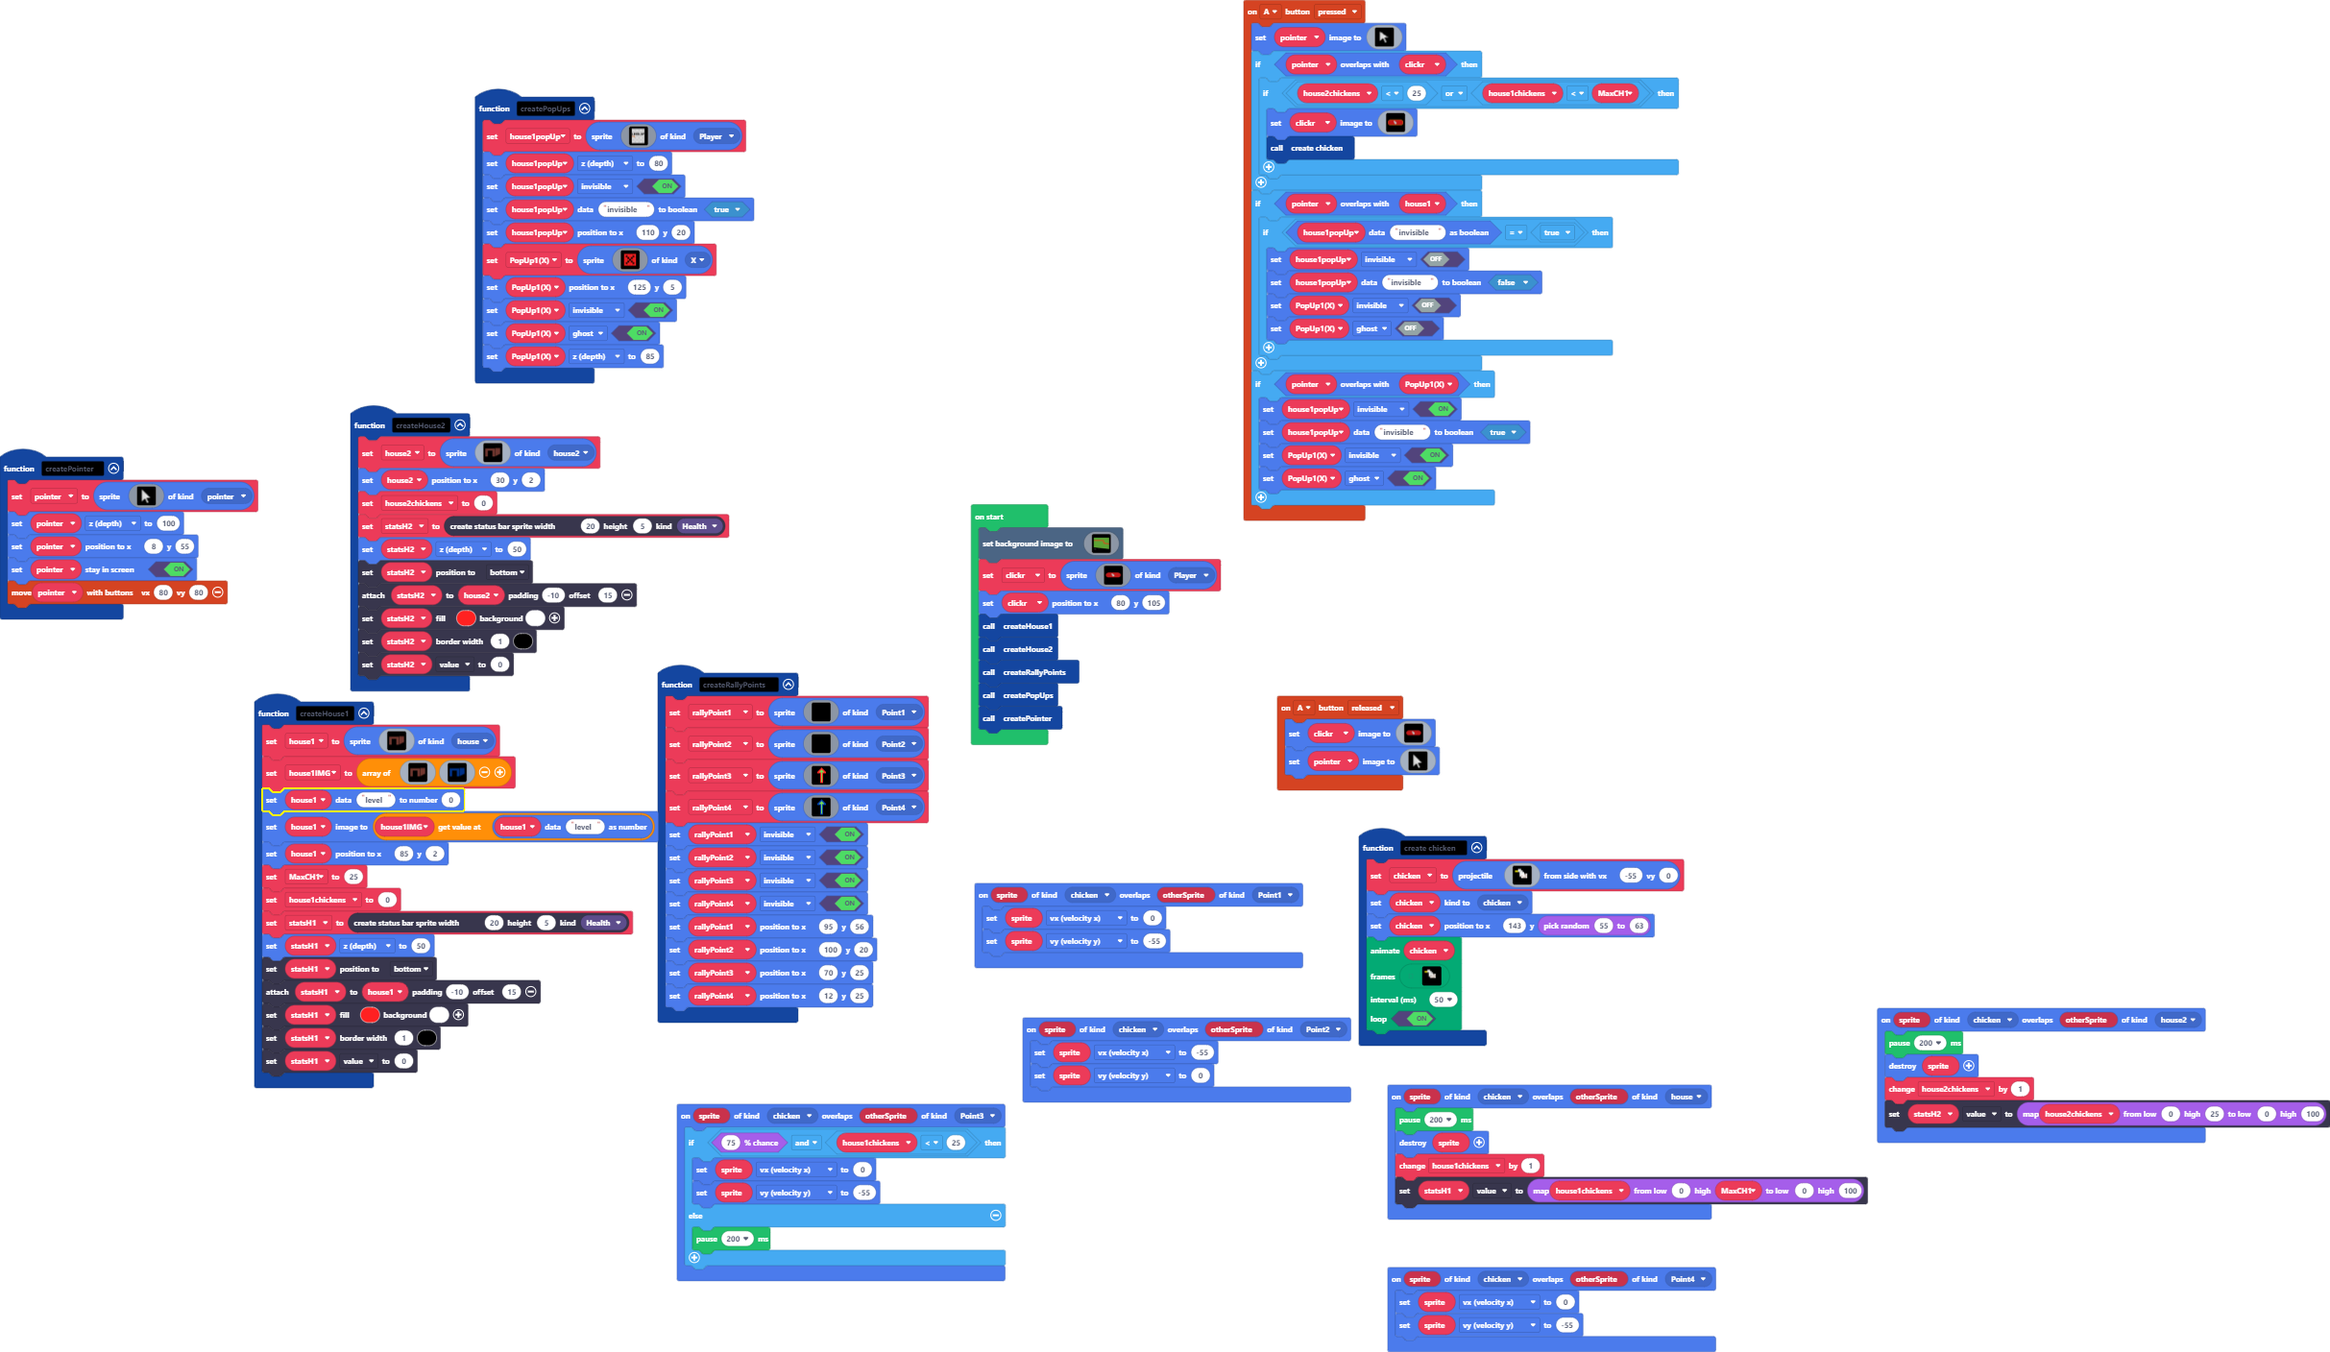
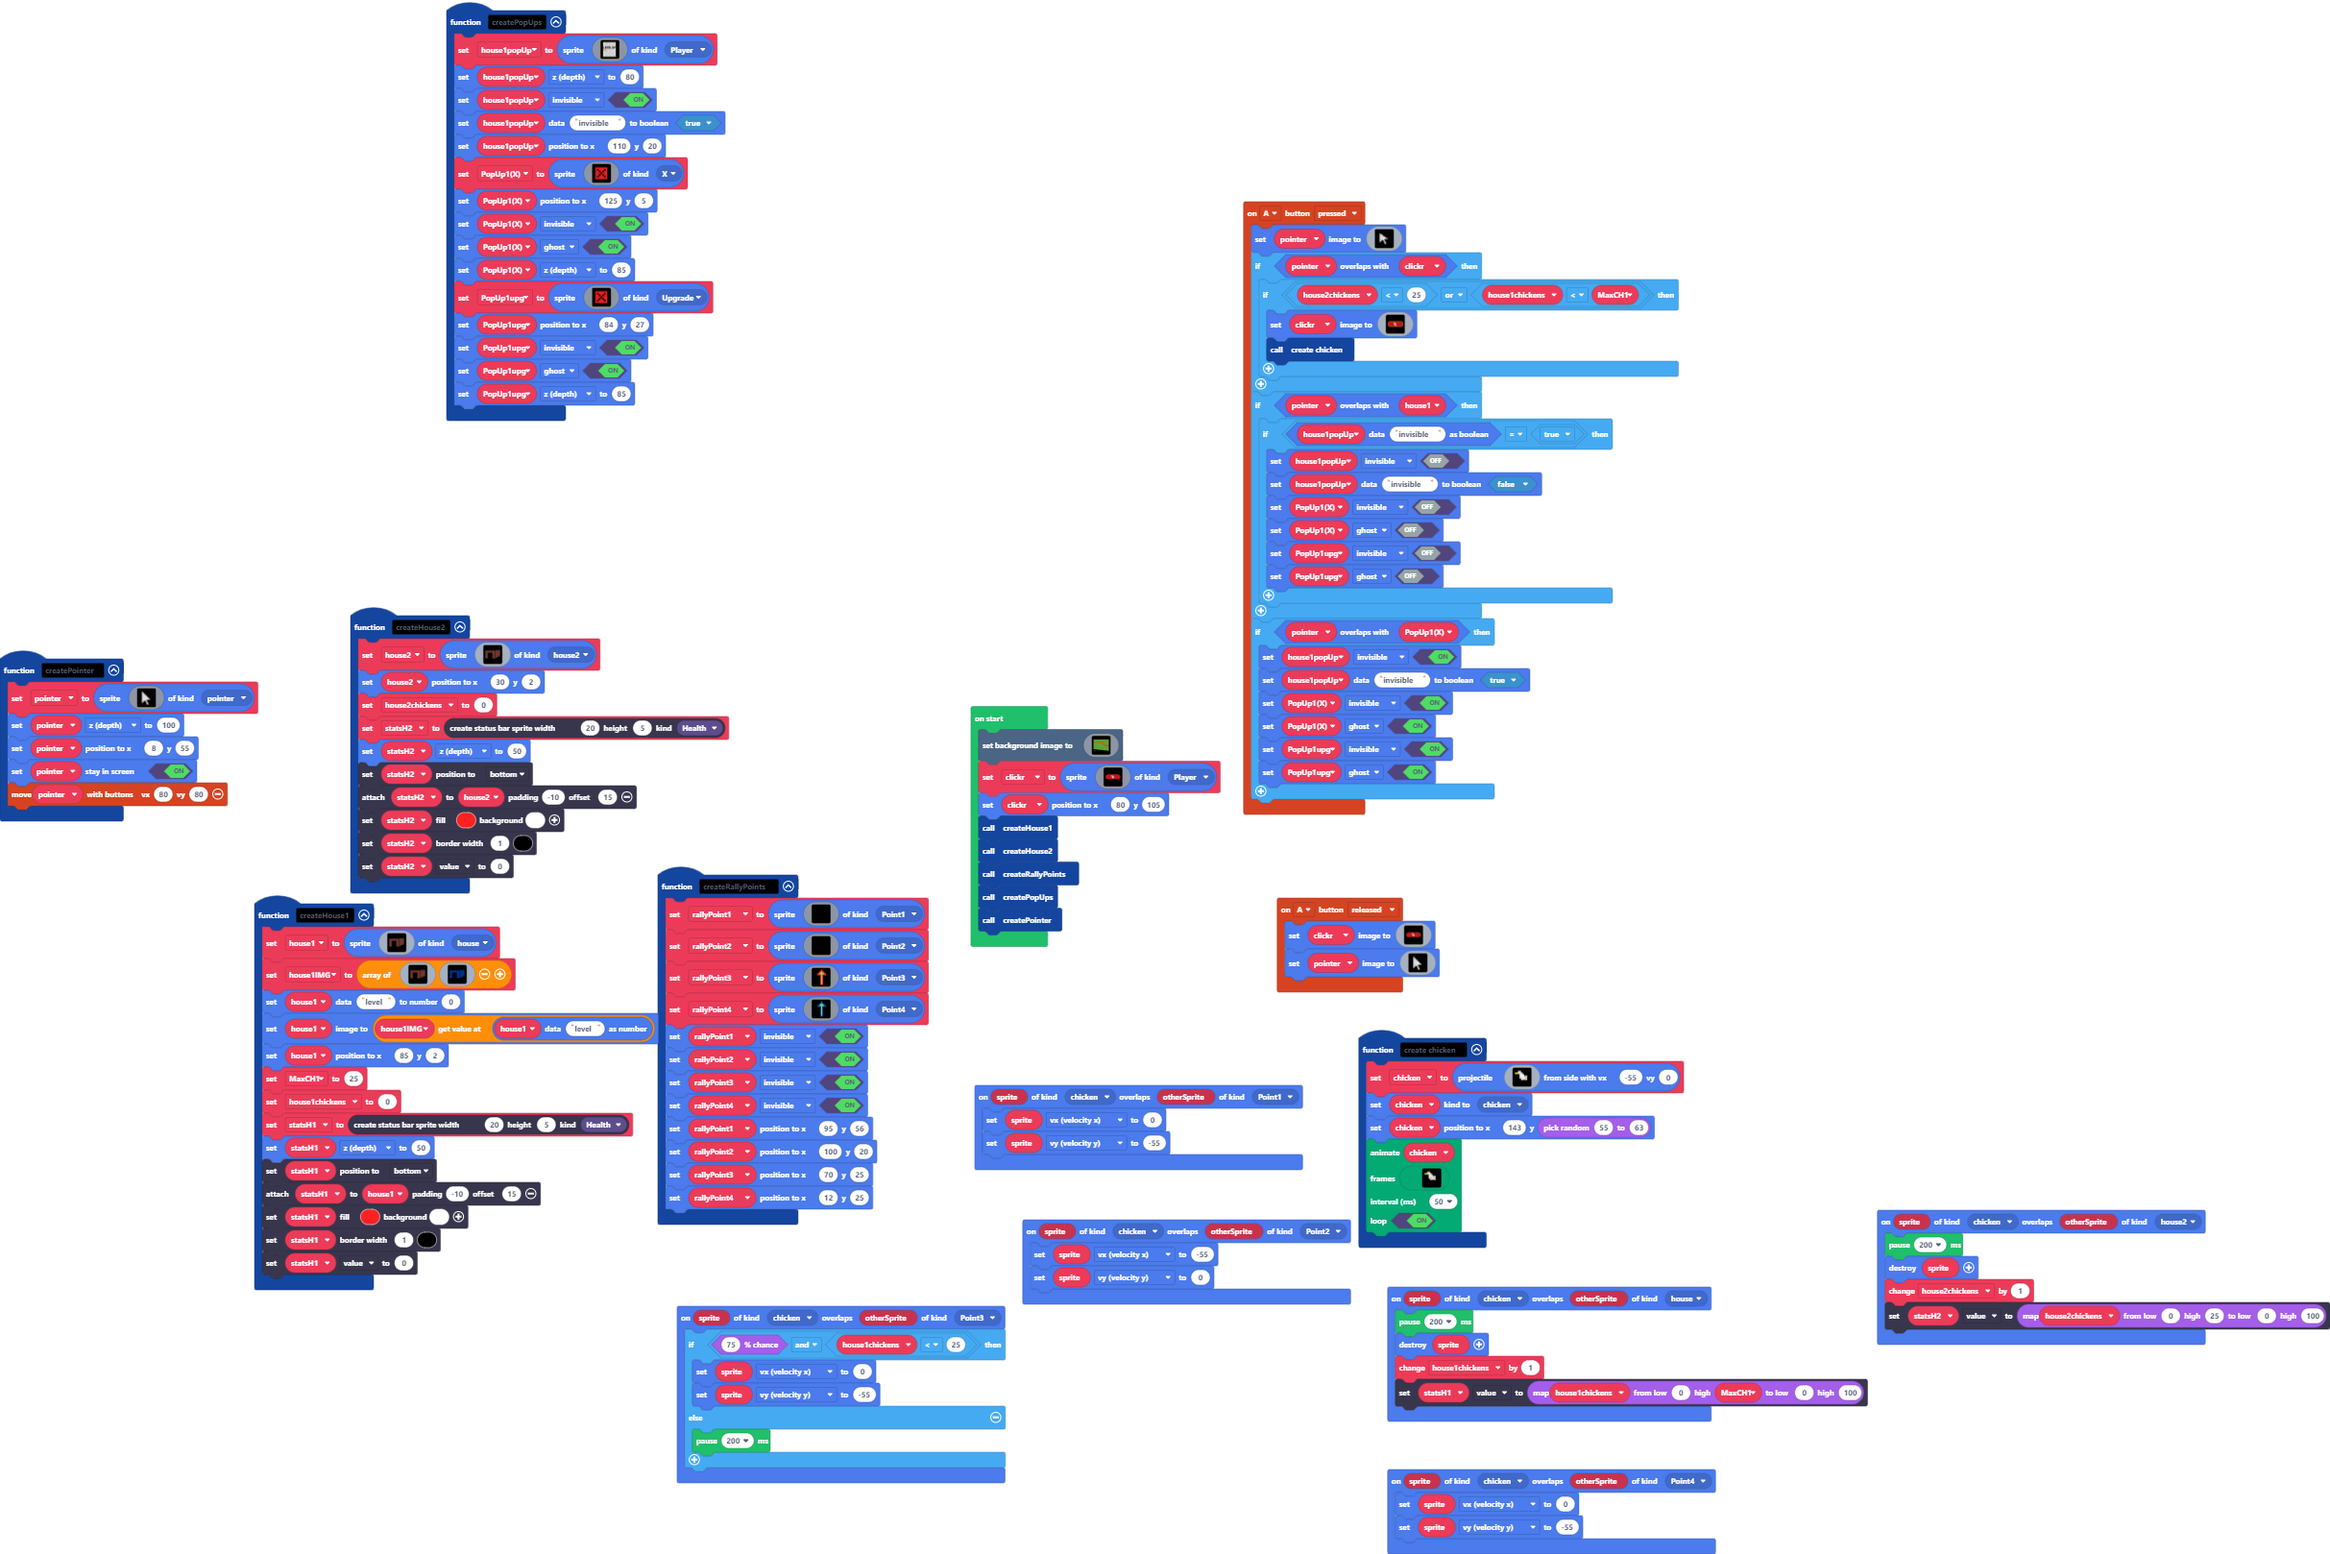
started making a upgrade button

Changed region(s): [[0.0, 0.0, 1.0, 1.0]]

diff --git a/main.ts b/main.ts
@@ -9,6 +9,7 @@ namespace SpriteKind {
     export const warning = SpriteKind.create()
     export const pointer = SpriteKind.create()
     export const X = SpriteKind.create()
+    export const Upgrade = SpriteKind.create()
 }
 sprites.onOverlap(SpriteKind.chicken, SpriteKind.house2, function (sprite, otherSprite) {
     pause(200)
@@ -192,6 +193,8 @@ controller.A.onEvent(ControllerButtonEvent.Pressed, function () {
             sprites.setDataBoolean(house1popUp, "invisible", false)
             PopUp1X.setFlag(SpriteFlag.Invisible, false)
             PopUp1X.setFlag(SpriteFlag.Ghost, false)
+            PopUp1upg.setFlag(SpriteFlag.Invisible, false)
+            PopUp1upg.setFlag(SpriteFlag.Ghost, false)
         }
     }
     if (pointer.overlapsWith(PopUp1X)) {
@@ -199,6 +202,8 @@ controller.A.onEvent(ControllerButtonEvent.Pressed, function () {
         sprites.setDataBoolean(house1popUp, "invisible", true)
         PopUp1X.setFlag(SpriteFlag.Invisible, true)
         PopUp1X.setFlag(SpriteFlag.Ghost, true)
+        PopUp1upg.setFlag(SpriteFlag.Invisible, true)
+        PopUp1upg.setFlag(SpriteFlag.Ghost, true)
     }
 })
 function createRallyPoints () {
@@ -520,6 +525,11 @@ function createPopUps () {
     PopUp1X.setFlag(SpriteFlag.Invisible, true)
     PopUp1X.setFlag(SpriteFlag.Ghost, true)
     PopUp1X.z = 85
+    PopUp1upg = sprites.create(assets.image`10`, SpriteKind.Upgrade)
+    PopUp1upg.setPosition(84, 27)
+    PopUp1upg.setFlag(SpriteFlag.Invisible, true)
+    PopUp1upg.setFlag(SpriteFlag.Ghost, true)
+    PopUp1upg.z = 85
 }
 sprites.onOverlap(SpriteKind.chicken, SpriteKind.Point3, function (sprite, otherSprite) {
     if (Math.percentChance(75) && house1chickens < 25) {
@@ -539,6 +549,7 @@ let rallyPoint4: Sprite = null
 let rallyPoint3: Sprite = null
 let rallyPoint2: Sprite = null
 let rallyPoint1: Sprite = null
+let PopUp1upg: Sprite = null
 let PopUp1X: Sprite = null
 let house1popUp: Sprite = null
 let house1: Sprite = null
